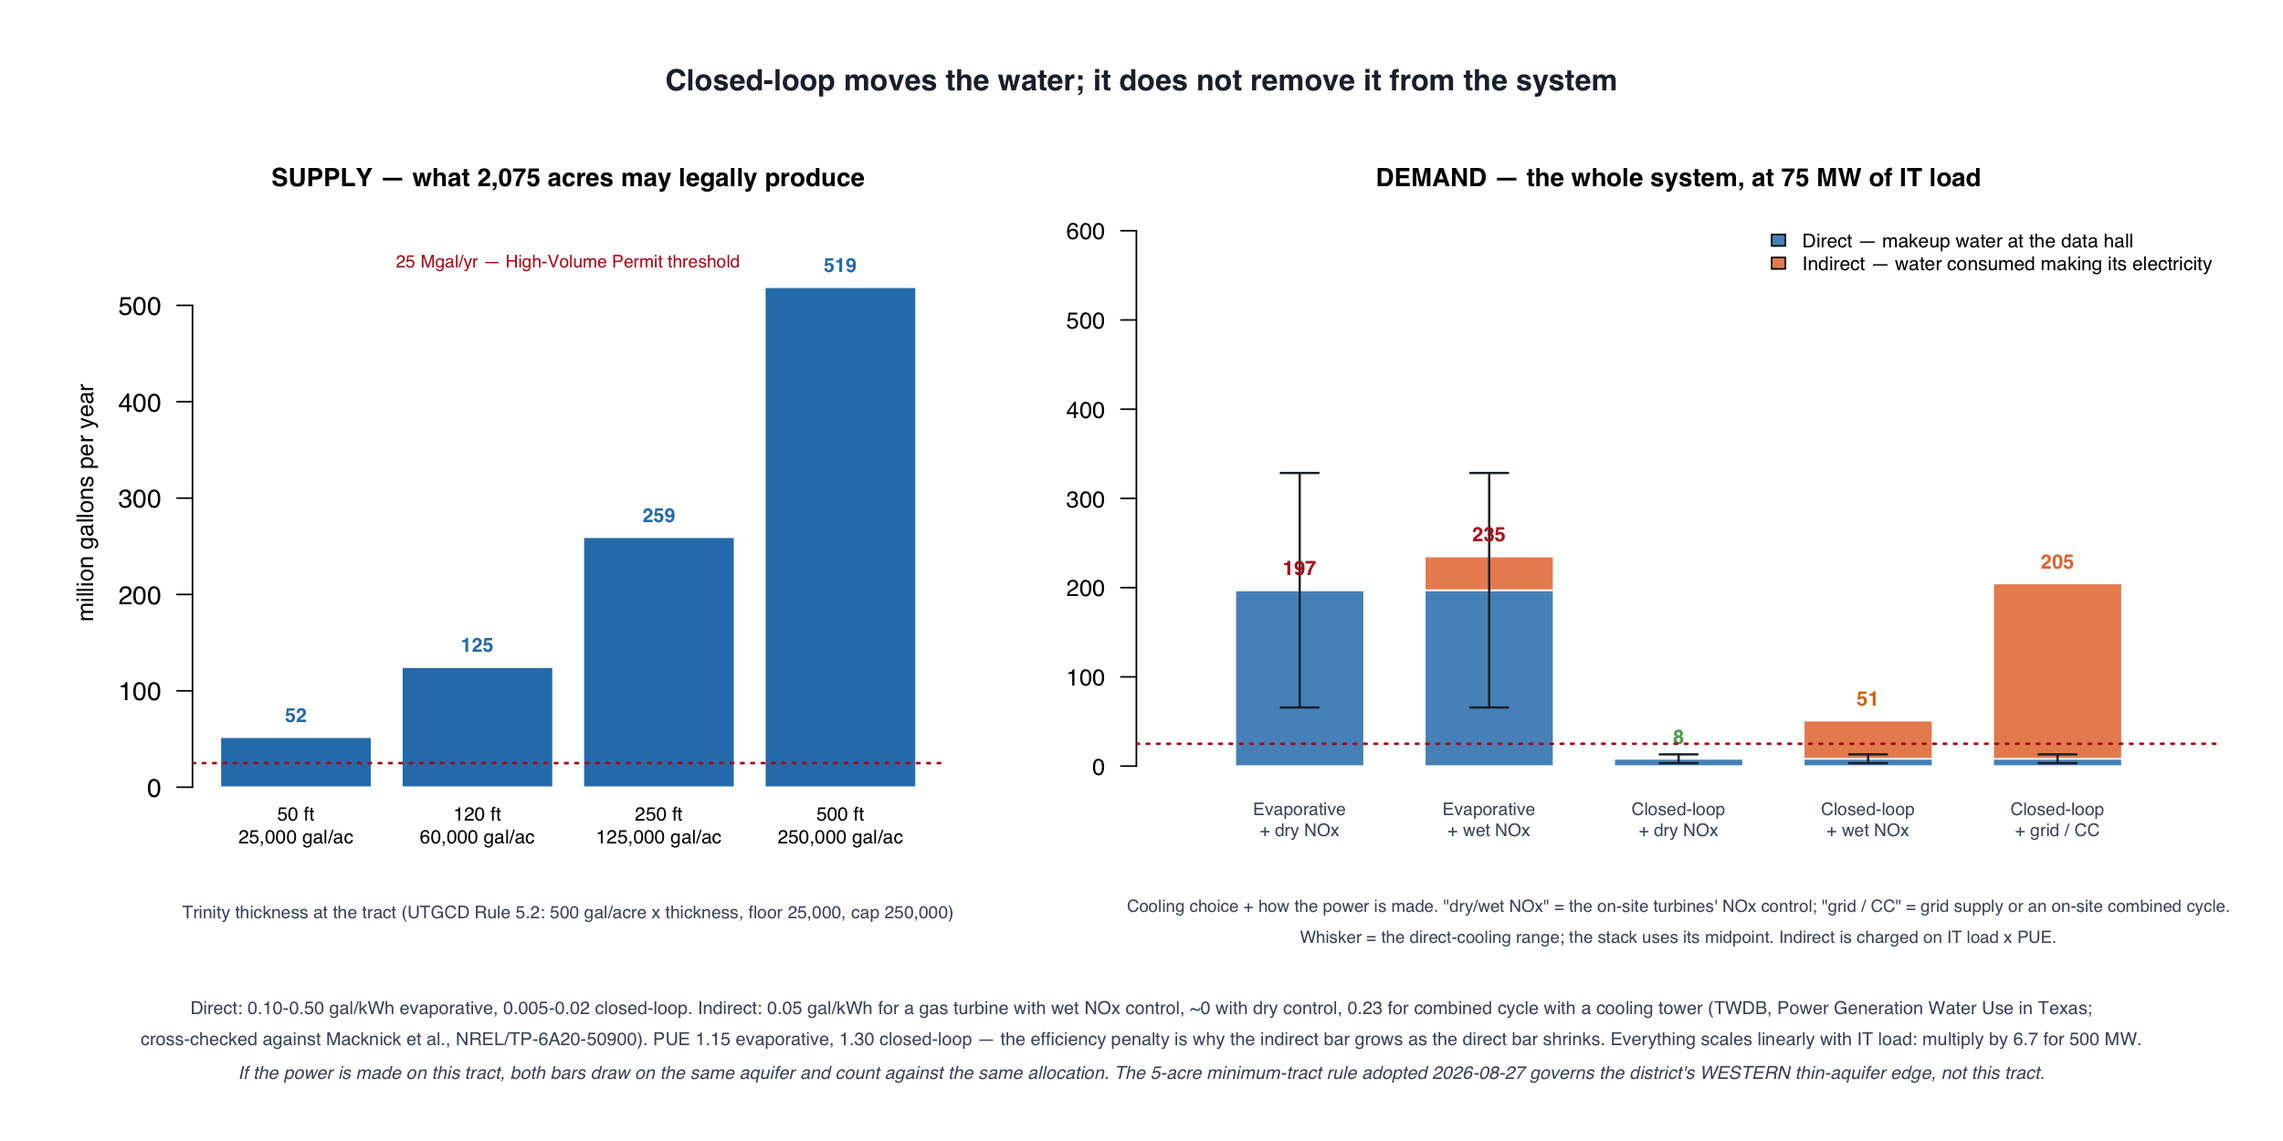
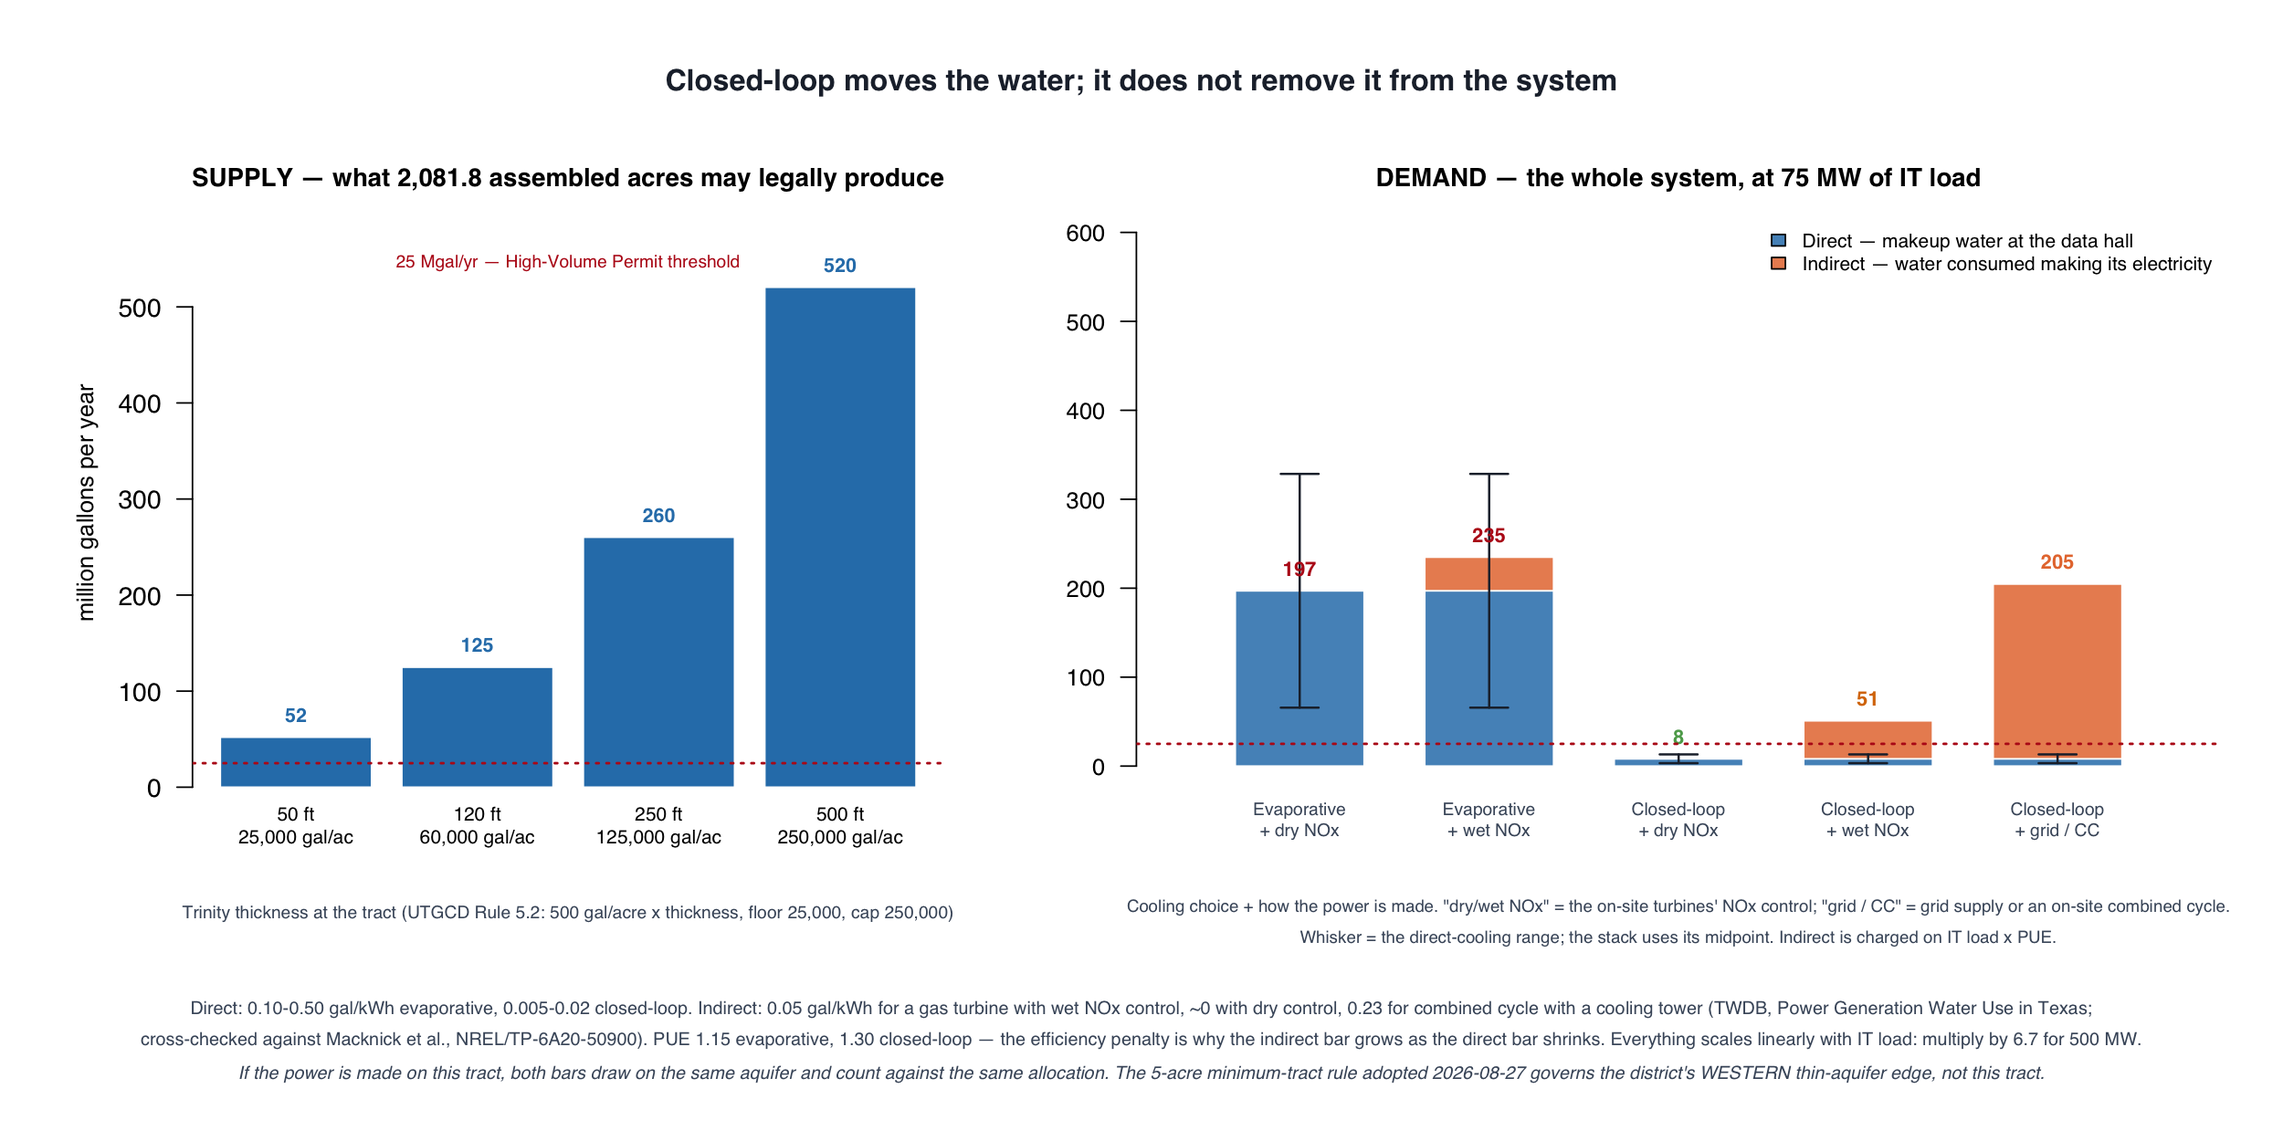
Correct the acreage to the full assembly; add the Comptroller audit lever
ACREAGE. A prior report differed by about 7 acres, so the figure was checked
against the Parker CAD certified export. 2,075.28 is correctly computed from the
notice batch — 18 parcels, matching every legal description — but the notice
batch is not the assembly. The roll carries a 19th parcel, R000127494 (6.530 ac,
geo id 22430.001.003.00), bought from the same seller, sequential in the same
block and geocoded identically to its sibling R127493, which received no ag-strip
notice and so never entered the evidence set. Assembly is about 2,081.8 acres,
which reconciles the 2,082 in the house_meeting datasheet to the acre.

The site now says about 2,081 acres assembled and calls out the 18 noticed
parcels at 2,075.28 separately. The groundwater ceiling is recomputed on the full
assembly, since UTGCD Rule 5.2 charges allocation per contiguous controlled acre:
52-520 Mgal/yr. One further discrepancy is recorded in the model comments: for
R59769 the May 2026 notice reads 155.763 ac against the 2025 roll's 155.373 —
transposed digits, 0.39 ac; the notice is the newer document and is what is used.

INCENTIVES. The buildout slide said a county resolution cannot reach the state
sales-tax exemptions. It now also says the Governor cannot: §151.359 and
§151.3595 are statutes administered by the Comptroller, a separately elected
officer, and only the Legislature can repeal them. Repeal is a stated 2027
priority; there was no 2026 regular session. What can claw the money back is an
[…]

diff --git a/slides/index.html b/slides/index.html
@@ -759,7 +759,7 @@
         </div>
         <div>
           <div class="card peer">
-            <div class="smallcaption">Annual property tax on the 2,075 acres:</div>
+            <div class="smallcaption">Annual property tax on the 18 noticed parcels:</div>
             <div class="big muted">$6,482/yr</div>
             <div class="smallcaption">before the correction (under ag exemption)</div>
             <hr>
@@ -780,7 +780,7 @@
     <!-- ═══════════════ 3 · THE SITE ═══════════════ -->
     <section class="slide" id="site">
       <div class="eyebrow">02 · The site</div>
-      <h2>2,075 acres, just outside the city's reach</h2>
+      <h2>About 2,081 acres, just outside the city's reach</h2>
       <h3 class="subhead">501 Pearson Ranch Road, off FM 730 (Azle Highway)</h3>
 
       <p class="lead">The site was deliberately pulled out of Weatherford's jurisdiction and sits on top of the city's
@@ -789,7 +789,7 @@
       <div class="twocol">
         <div>
           <ul class="bullets">
-            <li><strong>18 parcels · 2,075.28 acres</strong> assembled under <em>Black Mountain Power LLC</em></li>
+            <li><strong>18 parcels · 2,075.28 acres</strong> under the May 15, 2026 corrected notices, assembled under <em>Black Mountain Power LLC</em> — plus a <strong>19th adjacent parcel of 6.53 acres</strong> from the same seller that received no notice, for an assembly of about <strong>2,081 acres</strong></li>
             <li>Taxing units: Weatherford ISD, Parker County, Hospital District, Junior College District, ESD-1, Lateral
               Road</li>
             <li><strong>Removed from Weatherford's ETJ</strong> — petitioned out, so the city has no land-use authority
@@ -1147,7 +1147,7 @@
       <h3 class="subhead">Two things are genuinely unknown — the scale, and whether anyone abates it. Both are axes, not assumptions.</h3>
 
       <p class="lead">In June this site published a single buildout figure — <strong>$364 million</strong> — derived by
-        extrapolating a 1-gigawatt campus from 2,075 acres and applying an 80% abatement. Neither input was ever filed
+        extrapolating a 1-gigawatt campus from the acreage and applying an 80% abatement. Neither input was ever filed
         with anyone. That number has not been deleted: it is the cell where "1 GW, acreage-implied" meets "80%
         Chapter 312" in the grid below. What has changed is that it is no longer presented as the finding. <strong>Each
         row carries the class of evidence its scale rests on</strong>, and the baseline column is the one the county has
@@ -1190,6 +1190,24 @@
         for twenty years at a $500 million investment with 40 jobs and 20 MW of contracted transmission.
       </div>
 
+      <div class="card" style="border-left:0.4rem solid var(--pal-water); max-width:var(--measure); margin-top:1.2rem;">
+        <strong style="color:var(--pal-water);">And the Governor cannot reach them either.</strong> Those exemptions are
+        statutes. They are administered by the <strong>Comptroller</strong> — a separately elected officer, not a
+        gubernatorial appointee — and only the Legislature can repeal them. The Governor has named repeal a
+        <strong>2027 legislative priority</strong>, and the Senate Finance chair has said she will file a bill; there
+        was no regular session in 2026. Until then the statutes stand.
+        <p style="margin:0.7rem 0 0">What can actually claw the money back is an audit, and audits are the thin part of
+          the system. <strong>138 data centers are certified</strong> — 59 of them in 2026 alone, arriving at roughly
+          ten a month — and <strong>20 have been audited</strong>. Of those twenty, <strong>six were out of
+          compliance</strong>: four failed the job requirement, one the square-footage floor, one self-reported a
+          broken power agreement. A facility found non-compliant must repay the taxes it was excused. The state put the
+          two-year cost of the exemptions at <strong>$3.2 billion</strong> in 2025, and its chief revenue estimator has
+          said the next estimate will be significantly higher.</p>
+        <p class="smallcaption" style="margin:0.6rem 0 0">So the honest sequence, if this project is built at scale: the
+          county has refused what it controls, the Governor is asking the Legislature for what he does not control, and
+          the only live check on the largest subsidy is a compliance review running at fourteen percent.</p>
+      </div>
+
       <p class="source">Improvements taxed at 85% of value; 2025 adopted rates; 10-year Chapter 312 term. Evidence
         classes: PERMIT (filed public record), TESTIMONY (stated on the record by an official), DISCLOSED (announced by
         the developer for another site), INFERRED (derived from acreage; no filing supports it).
@@ -1208,7 +1226,7 @@
         rather than rhetoric.</p>
 
       <figure>
-        <img src="img/water_ceiling_C.png" alt="Chart: groundwater supply ceiling for 2,075 acres versus cooling demand by capacity and cooling type">
+        <img src="img/water_ceiling_C.png" alt="Chart: groundwater supply ceiling for the assembled acreage versus cooling demand by capacity and cooling type">
         <figcaption>Left: what the tract may legally produce, by Trinity thickness. Right: total system demand at
           75 MW of IT load — cooling makeup water plus the water consumed generating the power. Same axis; the dotted
           line is the High-Volume Permit threshold.</figcaption>
@@ -1218,7 +1236,7 @@
         <div>
           <p><strong>Production is capped by acreage.</strong> Under Rule 5.2 the annual allocation is 500 gallons per
             contiguous controlled acre times the aquifer thickness in feet, floored at 25,000 and capped at 250,000
-            gallons per acre. Across 2,075 acres that is roughly <strong>52 to 519 million gallons a year</strong> —
+            gallons per acre. Across about 2,081 acres that is roughly <strong>52 to 520 million gallons a year</strong> —
             about 0.14 to 1.4 million gallons a day — with the exact figure set by the Trinity thickness at the tract.</p>
           <p><strong>But cooling is only half the system.</strong> A closed-loop design does not make the water
             disappear; it moves it upstream to wherever the electricity is generated — and because closed-loop
@@ -1594,7 +1612,10 @@
         ownership; <strong>ERCOT is working to finish by December 10, 2026.</strong> Parker County should ask, in
         writing and through the county attorney, for two things: that results be published at <em>county level</em> rather than aggregated statewide,
         and that water be reported as a whole-system figure. The RFI currently collects cooling technology and power
-        sourcing in separate boxes — nobody upstream is adding them together.
+        sourcing in separate boxes — nobody upstream is adding them together. While the county is writing, the
+        Comptroller is the other address worth a letter: certification under §151.359 or §151.3595 is auditable, six of
+        the twenty audits done so far found non-compliance, and a county can ask that a facility in its jurisdiction be
+        reviewed.
       </div>
 
       <div class="ask">

diff --git a/index.html b/index.html
@@ -130,7 +130,7 @@
 <section>
   <h2>What's in scope</h2>
   <ul class="fact-list">
-    <li><strong>2,075 acres at 501 Pearson Ranch Road</strong> — assembled under Black Mountain Power LLC. Parker County Appraisal District stripped the agricultural exemption on May 15, 2026.</li>
+    <li><strong>About 2,081 acres at 501 Pearson Ranch Road</strong> — assembled under Black Mountain Power LLC. The 18 parcels that received corrected notices when Parker County Appraisal District stripped the agricultural exemption on May 15, 2026 total 2,075.28 acres; a 19th adjacent parcel of 6.53 acres, bought from the same seller, received no notice.</li>
     <li><strong>75-megawatt natural-gas power plant</strong> — five turbines, 24/7 continuous operation. Approved by TCEQ in 2.5 weeks with no public process.</li>
     <li><strong>Statewide context</strong> — the same operator (Fort Worth Power Core LLC) holds TCEQ air permits at 14 sites across 11 Texas counties. Parker is one of fourteen.</li>
     <li><strong>Local fiscal picture (revised September 2026)</strong> — Parker County adopted <strong>Resolution 26-25</strong>: no tax abatements for data centers. Unabated, Phase 1 would pay the county and its special districts about $3.8M a year ($38M over ten years), and Weatherford ISD about $6.6M a year — a share no county abatement could reach, because school districts cannot grant Chapter 312 and JETI excludes data centers. Larger scales scale accordingly; see the <a href="slides/#cost-buildout">scenario grid</a>. No capacity has been filed for the Parker site.</li>

diff --git a/STATEMENT.html b/STATEMENT.html
@@ -120,7 +120,7 @@
 <p>The broader case is that the same patterns repeat — solar farms, pipelines, gravel pits, freight rail, water transfers, cell towers, eminent-domain takings. What this project is for is <strong>citizens having the same access to the data and the analysis as the people on the other side of the table have always had.</strong></p>
 
 <blockquote class="pull">
-  If a 2,075-acre industrial assembly with a 75-megawatt fast-tracked air permit, no public notice, and an implied gigawatt-scale buildout is brought to a community after the fact — that is the dark-government problem, not the data-center problem.
+  If a 2,081-acre industrial assembly with a 75-megawatt fast-tracked air permit, no public notice, and an implied gigawatt-scale buildout is brought to a community after the fact — that is the dark-government problem, not the data-center problem.
 </blockquote>
 
 <p>If a public meeting confirms that a state senator threatens litigation against a county for considering a moratorium — that is the anti-democratic-activities problem, not the developer problem.</p>

diff --git a/profile_2026_09/STATE_OF_THE_ISSUE_2026-09.md b/profile_2026_09/STATE_OF_THE_ISSUE_2026-09.md
@@ -484,3 +484,51 @@ Star-Telegram / Yahoo 2026-05-20 and 2026-05-21.
 Primary local records: Parker County Commissioners Court transcripts 2026-05-26, 06-09, 06-22,
 06-30, 07-13 (`commissioners court studies/video_meetings/transcripts/`); Parker–Hood 391 draft
 resolution; UTGCD proposed rules amendments for the 2026-08-27 hearing.
+
+
+---
+
+## Acreage, verified 2026-09-02
+
+Checked against the Parker CAD certified export (`parker_property.prop`, host pg01, db `parker`)
+after a prior report differed by about 7 acres.
+
+- **2,075.28** is correctly computed from `bm_parcels_2026.csv` — 18 parcels, and the `acres`
+  column matches the ACRES figure in every legal description exactly.
+- The same 18 parcels total **2,074.89** on the 2025 certified roll. The whole gap is one parcel:
+  **R59769 — notice 155.763 ac, roll 155.373 ac**, transposed digits, 0.390. The May 2026 notice
+  is the newer document and is what the site uses.
+- The ~7 acres is a **19th parcel that never received a notice**: **R000127494, 6.530 ac**, geo id
+  22430.001.003.00 (sequential after R127493 `.001.00` and R122282 `.002.00`), owned by
+  **DTB Investments L P** — the same seller as most of the assembly — and geocoded identically to
+  its sibling R127493. It appears nowhere in the notice batch or the evidence set, consistent with
+  it not having been ag-valued, so no ag-strip correction was issued.
+- **Assembly: 2,081.81 ac** on the notice basis (2,081.42 on the roll basis). This reconciles the
+  "2,082 acres" in `house_meeting/analytics/parker_data_center_datasheet.html` to the acre.
+
+Site now states about **2,081 acres** assembled, with the 18 noticed parcels at 2,075.28 called out
+separately. The water ceiling is computed on the full assembly, since UTGCD Rule 5.2 charges
+allocation per contiguous controlled acre: **52-520 Mgal/yr**.
+
+**Not verified:** no deed for R127494. Same seller, adjacent, sequential and co-geocoded is strong
+but circumstantial. If a title search shows it was not part of the transaction, revert to 2,075.28.
+
+**Caution found in passing:** `parker_property.parcel_panel` reports 153.327 ac for R000066342
+where both `prop` and the notice say 65.897. The panel's acres column should not be trusted; use
+`prop`. (Its `is_dv` column is already known bad — see [[property-tax-db]].)
+
+## State incentives, verified 2026-09-02
+
+Tax Code **§151.359** (state sales tax on equipment, cooling, electrical gear and the electricity
+itself; 10 yrs at $200-250M investment, 15 yrs above) and **§151.3595** (state *and local*, 20 yrs,
+at $500M / 40 jobs / 20 MW contracted transmission) are **statutes administered by the Comptroller**
+— separately elected, not a gubernatorial appointee. **The Governor cannot repeal them or direct
+their denial.** He has named repeal a 2027 legislative priority and Senate Finance chair Joan
+Huffman has said she will file; there was no 2026 regular session.
+
+The live lever is compliance, and it is thin: **138 certified** (59 in 2026 alone, ~10/month),
+**20 audited**, **6 of those 20 out of compliance** — four failed the job requirement, one
+square-footage, one a self-reported broken power agreement. Non-compliant facilities repay the
+waived tax. Two-year cost estimated at **$3.2 billion** (2025); the chief revenue estimator says the
+next estimate will be significantly higher. Sources: Texas Tribune 2026-07-27; Senate Finance
+testimony (Jenny Burleson, Tax Policy Division; Brad Reynolds, chief revenue estimator).

diff --git a/SOCIAL_POSTS.md b/SOCIAL_POSTS.md
@@ -9,7 +9,7 @@ if you've set up a mirror at texascrossroads.net or henrylee.vote, swap the URL.
 
 **Variant A — neutral / factual opener**
 
-> Parker County families: a 2,075-acre data-center and natural-gas-power project is being assembled at FM 730 and Pearson Ranch Road in Weatherford ISD. The Texas Commission on Environmental Quality issued a 75-megawatt air permit for the site in 2.5 weeks, with no public notice. The same operator holds permits at 14 sites across 11 Texas counties.
+> Parker County families: a 2,081-acre data-center and natural-gas-power project is being assembled at FM 730 and Pearson Ranch Road in Weatherford ISD. The Texas Commission on Environmental Quality issued a 75-megawatt air permit for the site in 2.5 weeks, with no public notice. The same operator holds permits at 14 sites across 11 Texas counties.
 >
 > I spent the last two weeks pulling together what the public record actually says about this — the Parker CAD corrected notices, the TCEQ permit file, the corporate structure, and what it will cost residents under a standard Chapter 312 abatement.
 >
@@ -43,7 +43,7 @@ if you've set up a mirror at texascrossroads.net or henrylee.vote, swap the URL.
 
 **Variant 1**
 
-> Parker County, TX: Black Mountain Power LLC assembled 2,075 acres at FM 730/Pearson Ranch Rd for a 75MW gas-turbine + data-center complex. TCEQ approved the air permit in 2.5 weeks. No public notice. Sourced data + interactive map: parker-data-pro-populo.github.io/data-center-surface-datarun
+> Parker County, TX: Black Mountain Power LLC assembled about 2,081 acres at FM 730/Pearson Ranch Rd for a 75MW gas-turbine + data-center complex. TCEQ approved the air permit in 2.5 weeks. No public notice. Sourced data + interactive map: parker-data-pro-populo.github.io/data-center-surface-datarun
 
 
 **Variant 2**
@@ -111,7 +111,7 @@ if you've set up a mirror at texascrossroads.net or henrylee.vote, swap the URL.
 > The full project is at parker-data-pro-populo.github.io/data-center-surface-datarun. There's an interactive map you can click through, a 16-slide presentation deck I'll be presenting at the June 8 commissioners court session, and the underlying source code and data are all open.
 >
 > A few key findings:
->   - 2,075 acres have been assembled at FM 730/Pearson Ranch by Black Mountain Power LLC. Parker CAD stripped the agricultural exemption on May 15.
+>   - About 2,081 acres have been assembled at FM 730/Pearson Ranch by Black Mountain Power LLC. Parker CAD stripped the agricultural exemption from 18 of the parcels (2,075.28 acres) on May 15; a 19th adjacent parcel of 6.53 acres from the same seller received no notice.
 >   - TCEQ registered a five-turbine gas plant (Air New Source Registration 179422) in 2.5 weeks with no public notice. The 75-megawatt figure attached to it comes from testimony in open court on May 26, not from the permit itself — we now label it that way.
 >   - The same operator has 14 sites across 11 Texas counties, and its Bowie County plant, filed under the same standard permit, discloses roughly 446 MW.
 >   - Parker County has adopted Resolution 26-25: no tax abatements for data centers. Unabated, Phase 1 pays local jurisdictions about $3.8M a year; Weatherford ISD collects about $6.6M a year that no county abatement could touch.
